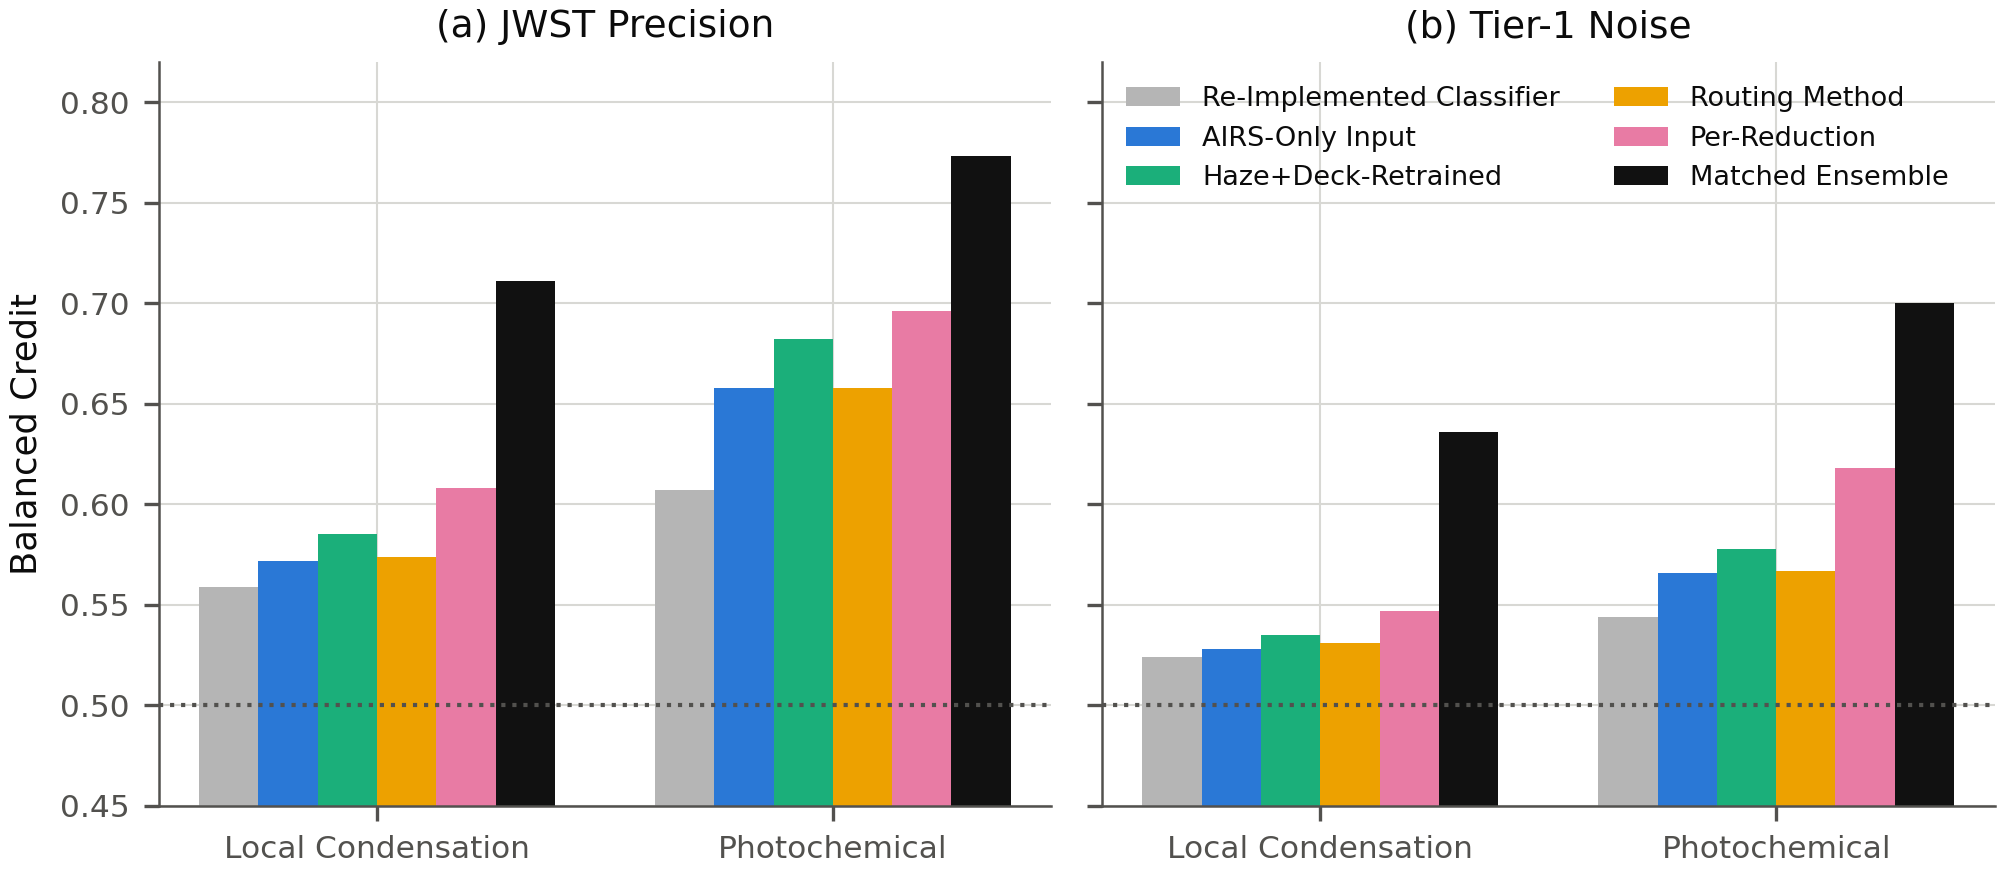
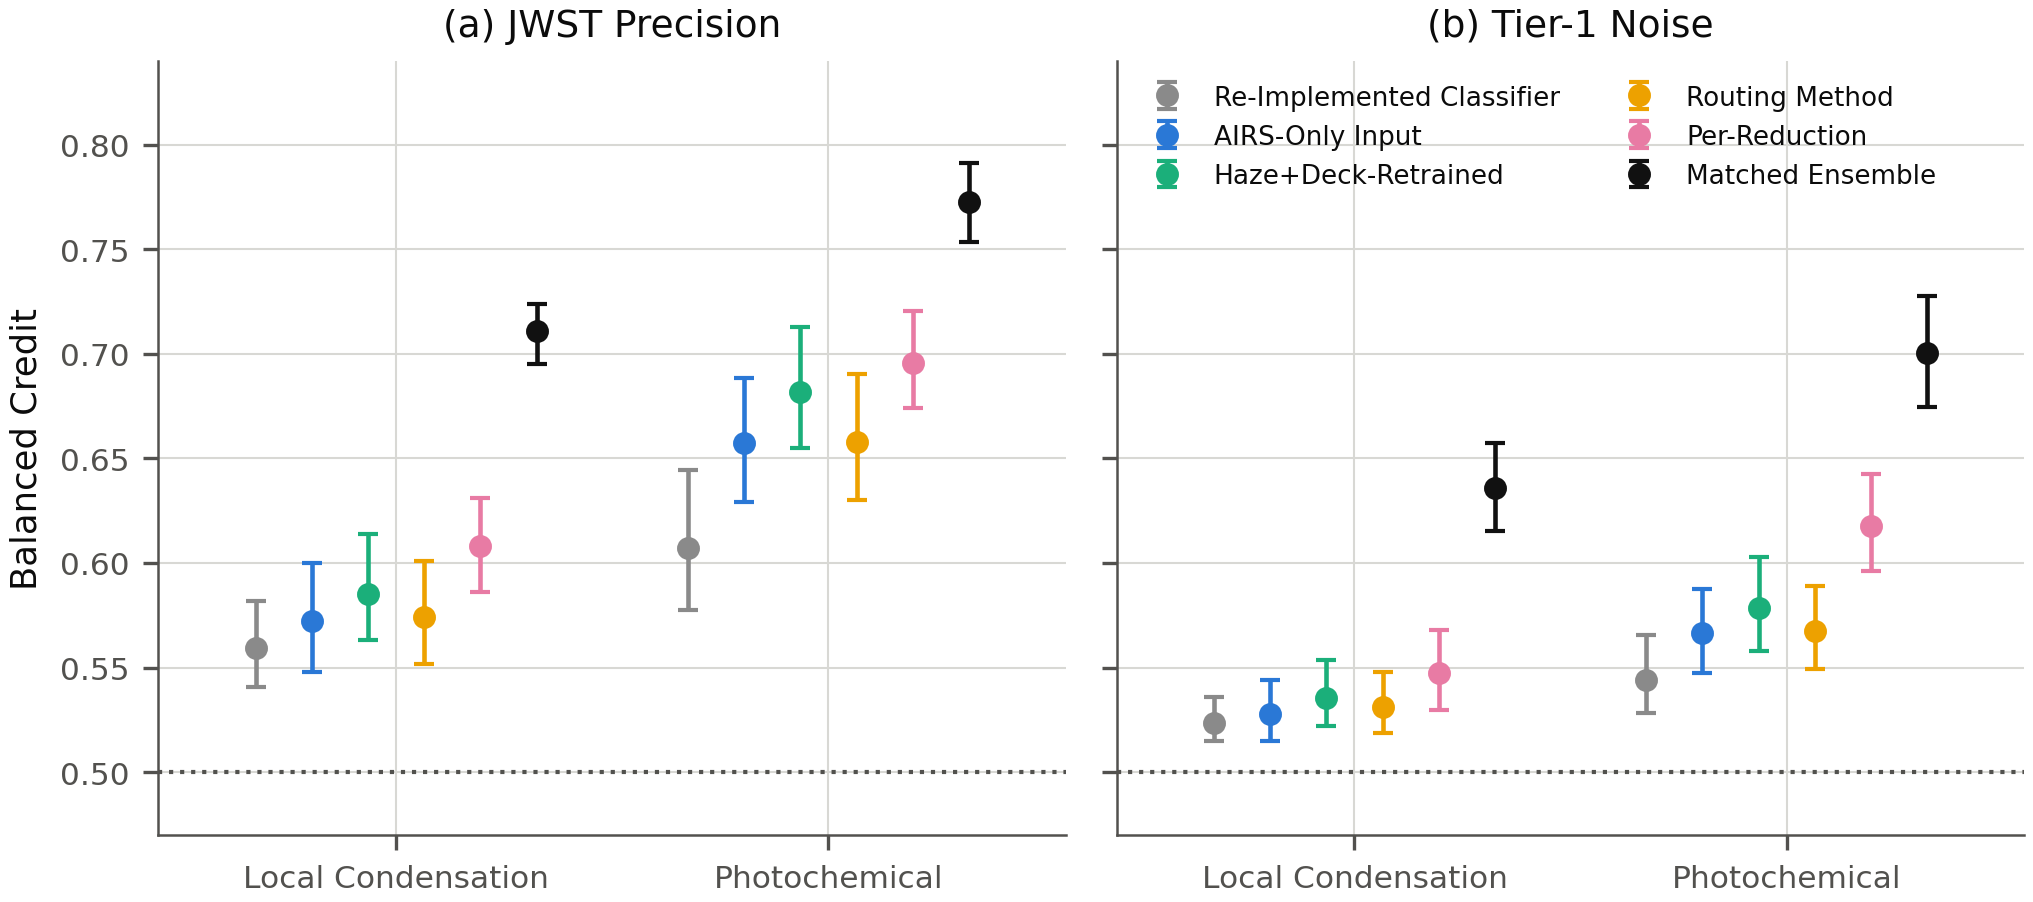
Figure 6 with intervals; script for the worked case of indistinguishable compositions

diff --git a/v3/plots/fig7_grids.py b/v3/plots/fig7_grids.py
@@ -1,27 +1,27 @@
-"""Manuscript figure: balanced credit on the two held-out model grids through the real masks (results/goyal_test/goyal_{local,crossfield}.txt)."""
+"""Manuscript figure: balanced credit on the two held-out model grids through the real masks, with 95 % bootstrap intervals over planets (results/goyal_test, results/round3)."""
 import os, sys
-import numpy as np
+import numpy as np, pandas as pd
 sys.path.insert(0, os.path.dirname(os.path.abspath(__file__)))
 import matplotlib.pyplot as plt  # noqa: E402
 from style import INK2, SERIES, save  # noqa: E402
-V3 = os.path.dirname(os.path.dirname(os.path.abspath(__file__))); D = ["published", "AIRS-only", "haze+deck-retrained", "the method", "matched+amp", "C+B-mlp"]; LAB = ["Re-Implemented Classifier", "AIRS-Only Input", "Haze+Deck-Retrained", "Routing Method", "Per-Reduction", "Matched Ensemble"]; GR = [("local", "Local Condensation"), ("crossfield", "Photochemical")]
+V3 = os.path.dirname(os.path.dirname(os.path.abspath(__file__))); D = ["published", "AIRS-only", "haze+deck-retrained", "the method", "matched+amp", "C+B-mlp"]; LAB = ["Re-Implemented Classifier", "AIRS-Only Input", "Haze+Deck-Retrained", "Routing Method", "Per-Reduction", "Matched Ensemble"]; GR = [("local", "Local Condensation"), ("crossfield", "Photochemical")]; COL = ["#8a8a8a", SERIES[0], SERIES[2], SERIES[3], SERIES[4], "#111111"]; BASE = lambda s: s.replace("-alt", "").replace("-hu", "").replace("-hm", "")
 
 
-def read(tag, prec):
-    out, on = {}, False
-    for l in open(os.path.join(V3, "results", "goyal_test", f"goyal_{tag}.txt")):
-        if l.startswith("=="): on = l.startswith(f"== {prec}, all:")
-        elif on: k = l.split(" balanced ")[0].strip(); out[k] = float(l.split(" balanced ")[1].split()[0])
-    return [out[d] for d in D]
+def read(tag):
+    g = os.path.join(V3, "results", "goyal_test"); V = pd.concat([pd.read_csv(os.path.join(g, f"votes_{k}_{tag}.csv.gz")) for k in ("frozen", "matched")] + [pd.read_csv(os.path.join(V3, "results", "round3", f"votes_C+B-mlp_{tag}.csv.gz")).drop(columns="prob")]); V = V[V.design.isin(D)]; Y = pd.read_csv(os.path.join(g, f"truth_{tag}.csv")).melt(id_vars=["planet", "row"], value_vars=[f"v_{m}" for m in ("CH4", "H2O", "CO2", "NH3")], var_name="molecule", value_name="v"); Y["molecule"] = Y.molecule.str[2:]; A = V.merge(Y, on=["planet", "row", "molecule"]); A["y"] = A.v > -4; A["c"] = np.where(A.y, A.present, A.absent) + 0.5 * (1 - A.present - A.absent); A["u"] = A.planet.map(BASE); S = A.groupby(["precision", "design", "u", "y"]).c.agg(["sum", "count"]); us = sorted(A.u.unique()); ix = np.random.default_rng(405).integers(0, len(us), (4000, len(us))); o = {}
+    for p in ("JWST", "Tier-1"):
+        for d in D:
+            q = S.loc[(p, d)].unstack("y").reindex(us).fillna(0); a, b, c_, e = (q["sum"][True].to_numpy(), q["count"][True].to_numpy(), q["sum"][False].to_numpy(), q["count"][False].to_numpy()); F = lambda i: 0.5 * (a[i].sum(-1) / b[i].sum(-1) + c_[i].sum(-1) / e[i].sum(-1)); o[(p, d)] = (F(np.arange(len(us))), *np.percentile(F(ix), [2.5, 97.5]))
+    return o
 
 
 def main():
-    fig, ax = plt.subplots(1, 2, figsize=(7.2, 3.1), sharey=True); w = 0.13
+    R = {t: read(t) for t, _ in GR}; fig, ax = plt.subplots(1, 2, figsize=(7.2, 3.2), sharey=True)
     for a, prec, title in zip(ax, ("JWST", "Tier-1"), ("(a) JWST Precision", "(b) Tier-1 Noise")):
         for j, (d, lab) in enumerate(zip(D, LAB)):
-            a.bar(np.arange(2) + (j - 2.5) * w, [read(t, prec)[j] for t, _ in GR], w, label=lab, color=(["#b5b5b5", SERIES[0], SERIES[2], SERIES[3], SERIES[4], "#111111"])[j])
-        a.axhline(0.5, color=INK2, ls=":", lw=1); a.set_xticks(np.arange(2)); a.set_xticklabels([g for _, g in GR]); a.set_title(title, fontsize=9); a.set_ylim(0.45, 0.82)
-    ax[0].set_ylabel("Balanced Credit"); ax[1].legend(fontsize=6.5, loc="upper left", ncol=2); fig.tight_layout(); save(fig, "fig7_grids.png")
+            xs = np.arange(2) + (j - 2.5) * 0.13; v = np.array([R[t][(prec, d)] for t, _ in GR]); a.errorbar(xs, v[:, 0], yerr=[v[:, 0] - v[:, 1], v[:, 2] - v[:, 0]], fmt="o", ms=4.5, capsize=2.5, lw=1.1, color=COL[j], label=lab)
+        a.axhline(0.5, color=INK2, ls=":", lw=1); a.set_xticks(np.arange(2)); a.set_xticklabels([g for _, g in GR]); a.set_title(title, fontsize=9); a.set_ylim(0.47, 0.84); a.set_xlim(-0.55, 1.55)
+    ax[0].set_ylabel("Balanced Credit"); ax[1].legend(fontsize=6.3, loc="upper left", ncol=2, frameon=False); fig.tight_layout(); save(fig, "fig7_grids.png")
 
 
 if __name__ == "__main__":

diff --git a/v3/worked_example.py b/v3/worked_example.py
@@ -1,0 +1,24 @@
+"""A worked case of indistinguishable compositions for Section 3.2: planets whose H2O label lies at least a decade above the threshold, undecided by the retrieval, with the best opposite-label fit of (eq1). Writes results/worked_example.txt."""
+import os
+import sys
+import warnings
+
+import numpy as np
+import pandas as pd
+
+warnings.filterwarnings("ignore")
+HERE = os.path.dirname(os.path.abspath(__file__)); os.chdir(HERE); sys.path.insert(0, HERE)
+from common import DATA, RESULTS, SEED  # noqa: E402
+import alfnoor_faithful as AF  # noqa: E402
+import generate_grid as G  # noqa: E402
+import identifiability as I  # noqa: E402
+
+src = AF.DIRS["faithful"]; wl = np.load(os.path.join(DATA, "native_wl.npy")); edges = AF.layout_edges("tier3_r20"); Pte = pd.read_parquet(os.path.join(src, "pop1_params.parquet")); Y = np.load(os.path.join(src, "pop1_native.npy")).astype(float); ok = np.isfinite(Y).all(1); Pte = Pte[ok].reset_index(drop=False).rename(columns={"index": "_index"}); Y = Y[ok]
+mcs = pd.read_parquet(os.path.join(DATA, "mcs", "mcs_params.parquet"))[["name", "atm temperature"]].rename(columns={"atm temperature": "T_p"}); Pte = Pte.merge(mcs.drop_duplicates("name"), on="name", how="left"); sig = AF.sigma(Pte, edges, "radiometric"); R = pd.read_csv(os.path.join(RESULTS, "identifiability_calibration.csv")).drop_duplicates("name").set_index("name").reindex(Pte.name.to_numpy())
+G.FILL_GAS = AF.FILL; c = np.where((R.H2O_true.to_numpy() > -3) & (R.H2O_p_true.to_numpy() < 0.95))[0]; rng = np.random.default_rng(SEED + 4400); pick = rng.choice(c, min(12, len(c)), replace=False); L = [f"{len(c)} planets have H2O more than a decade above 1e-4 and undecided at 0.95"]; best = None; bin_ = None
+for k in pick:
+    r = Pte.iloc[k].to_dict(); pl = I.Planet(r, Y[k], wl, edges, sig[k], "none", list(G.GASES), None); d, bx = pl.dchi2("H2O", 3, rng); L.append(f"{r['name']}: dchi2 {d:.3f}, p_true {R.H2O_p_true.iloc[k]:.3f}")
+    if bx is not None and (best is None or d < best[0]): best = (d, bx, k, r, pl)
+d, bx, k, r, pl = best; ab = dict(zip([m for m in I.MOLS if m != "H2O"], bx[2:])); ab["H2O"] = I.THRESH; y = pl.render(bx[0], bx[1], ab); t = pl.truth; dd = t - y; dd = dd - np.sum(dd / pl.sigma ** 2) / np.sum(1 / pl.sigma ** 2)
+L += ["", f"Worked case: {r['name']}, dchi2 {d:.3f} over 104 bins, p_true {R.H2O_p_true.iloc[k]:.3f}", "true: T %.0f K, cloud top %.3g Pa, " % (r["atm temperature"], r["cloud_pressure"]) + ", ".join(f"{m} {r[f'atm {m}']:.2f}" for m in I.MOLS), "opposite-label fit: T %.0f K, cloud top %.3g Pa, " % (bx[0], 10 ** bx[1]) + ", ".join(f"{m} {ab[m]:.2f}" for m in I.MOLS), f"largest difference {np.abs(dd).max() * 1e6:.0f} ppm, {np.abs(dd / pl.sigma).max():.2f} sigma; median sigma {np.median(pl.sigma) * 1e6:.0f} ppm"]
+t = "\n".join(L); open(os.path.join(RESULTS, "worked_example.txt"), "w").write(t + "\n"); print(t)
